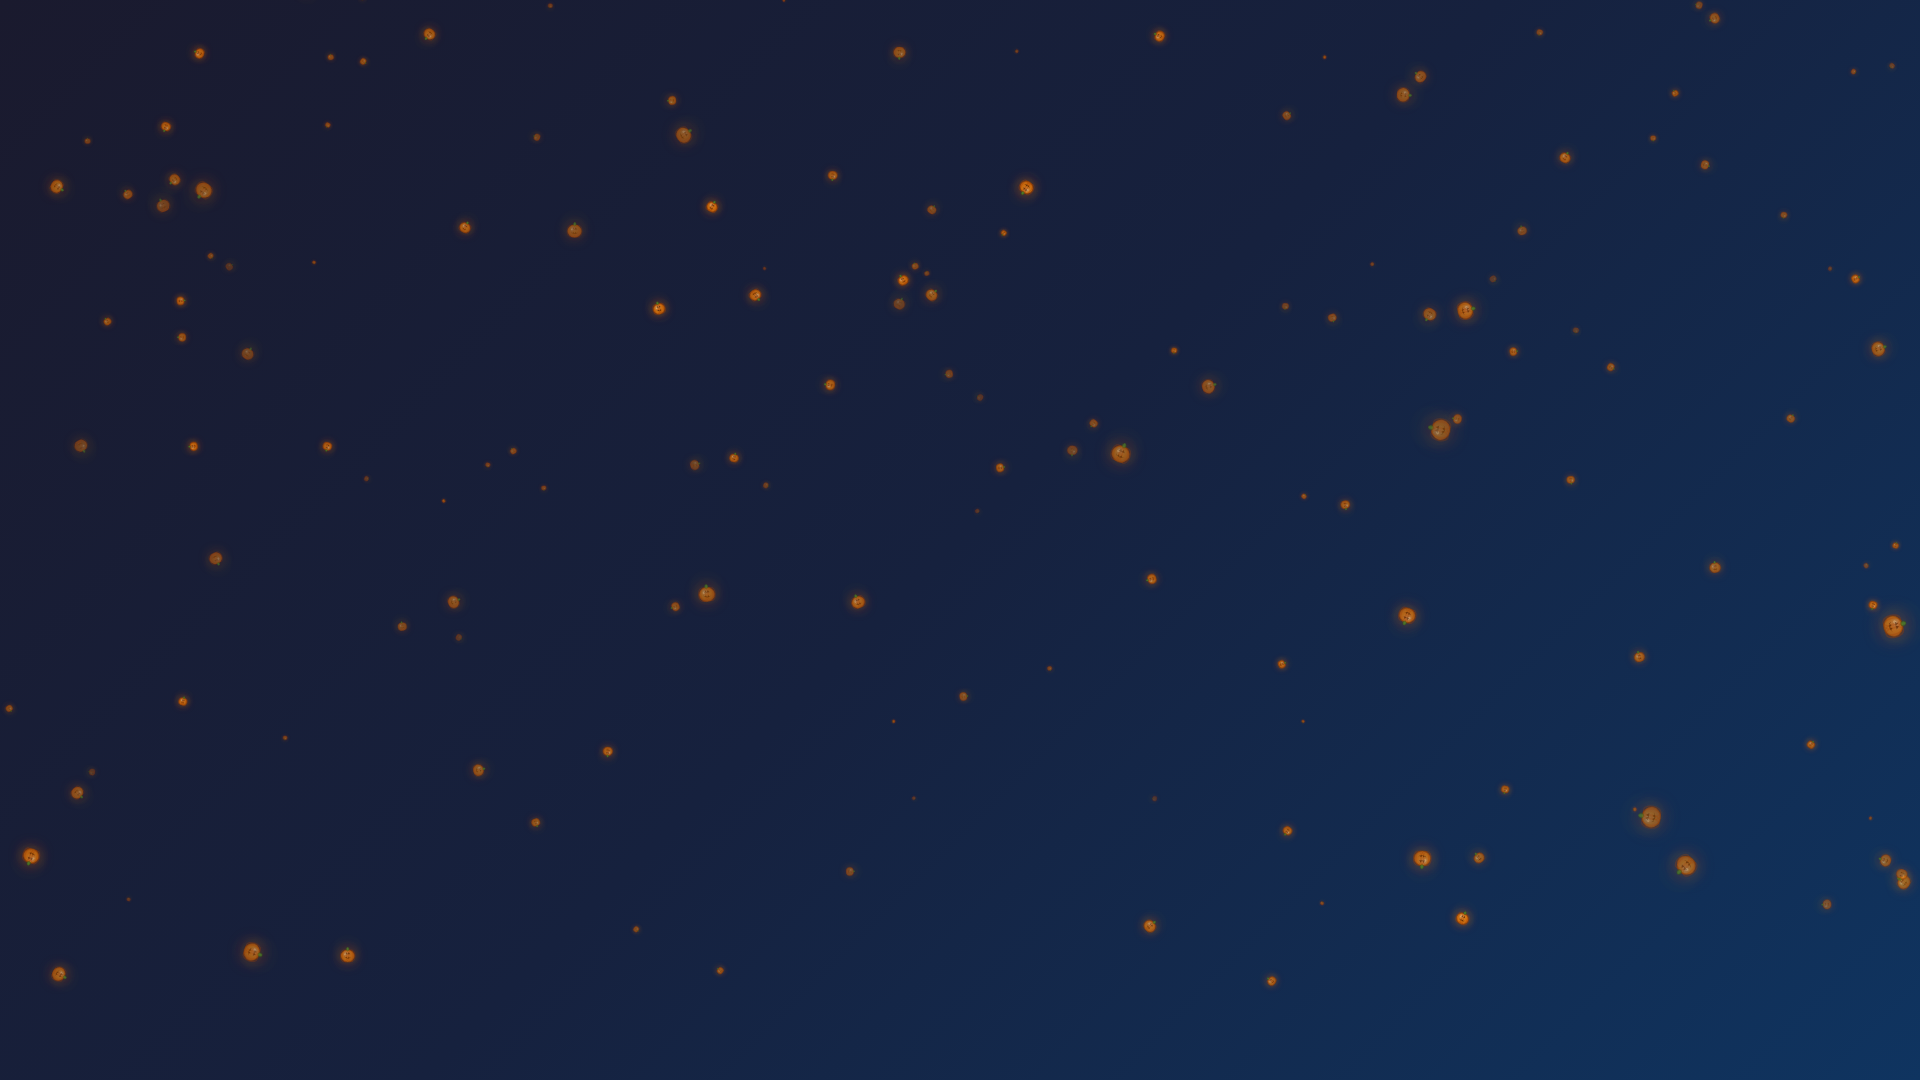
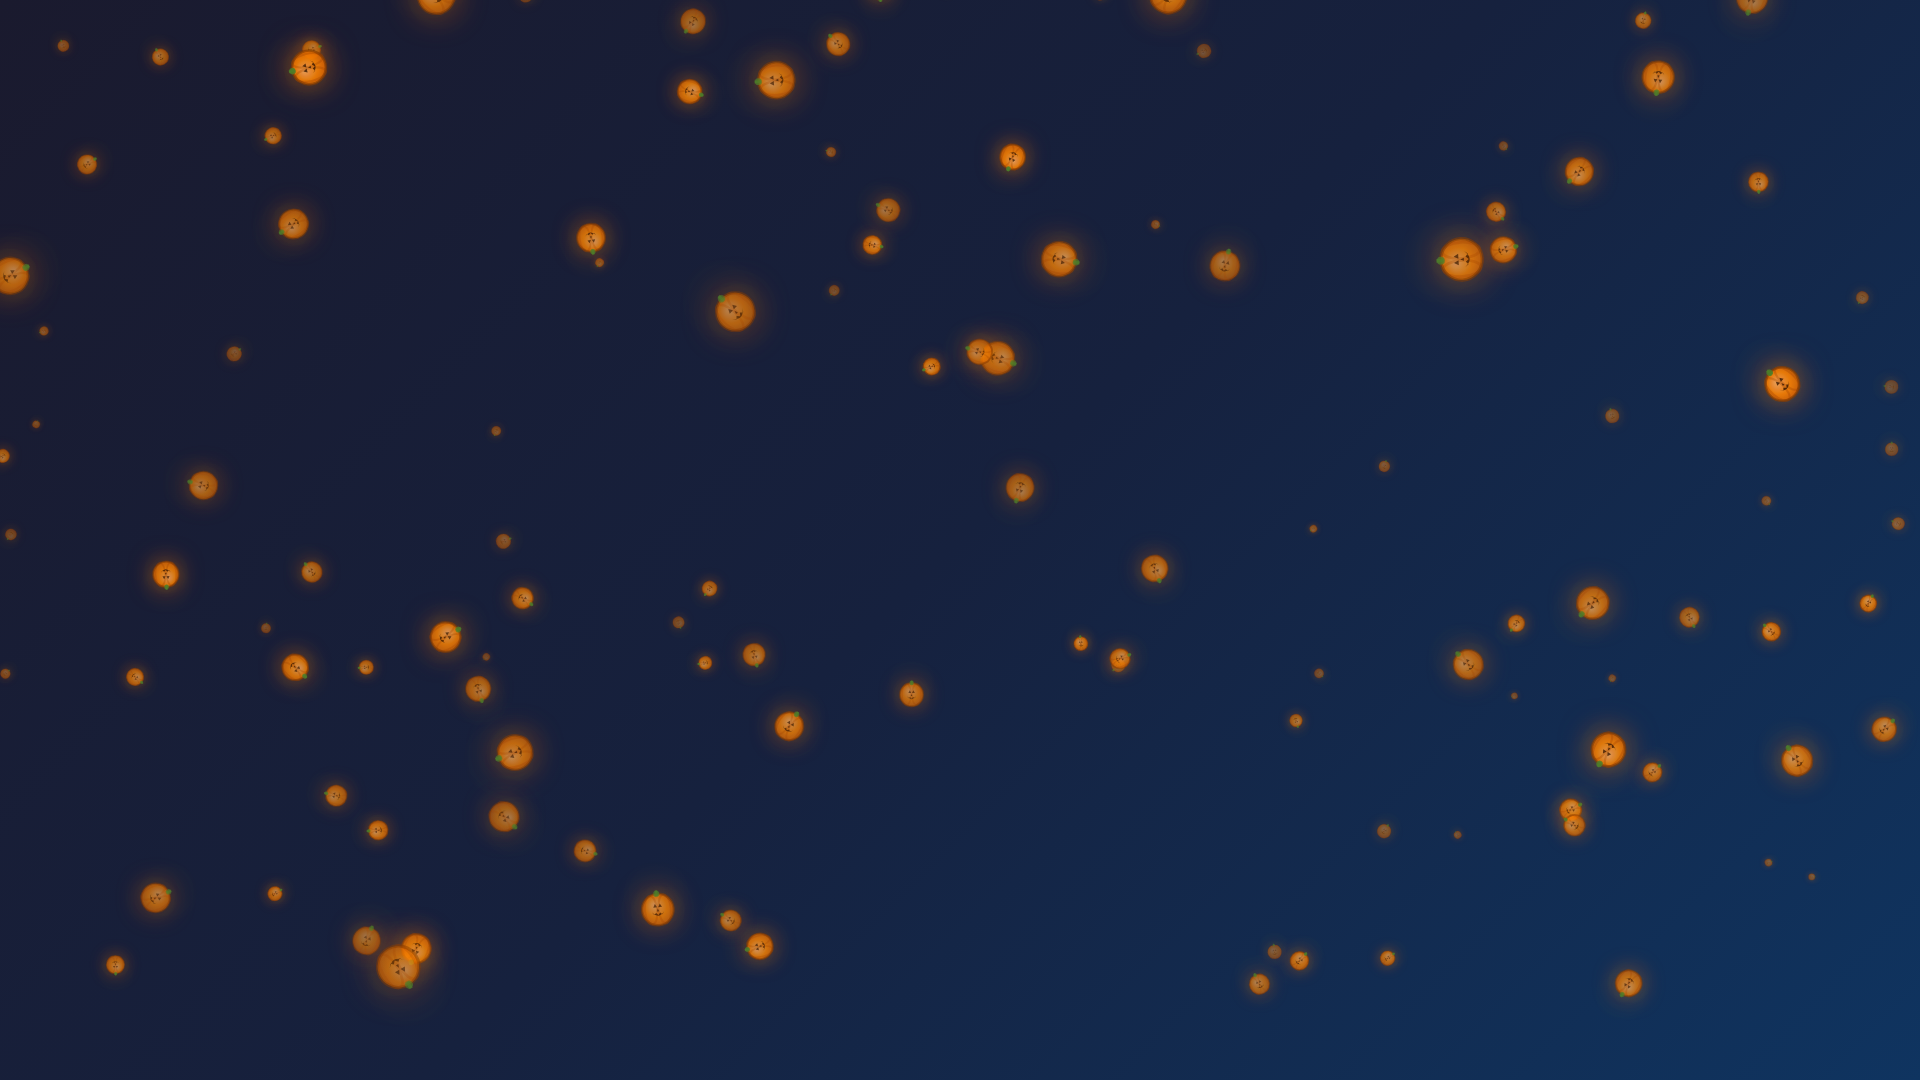
fix: 重新设计南瓜图案，更像 🎃 南瓜灯
- 改为更圆润的南瓜主体
- 增加三角眼、三角鼻、锯齿微笑嘴
- PatternIcon 南瓜图标同步重新设计
- 截图使用较大粒子展示表情细节

diff --git a/public/snow/drawers.js b/public/snow/drawers.js
@@ -273,81 +273,80 @@ export function drawButterfly (r) {
 }
 
 export function drawPumpkin (r) {
-  // 南瓜：圆润主体 + 纵向肋骨 + 绿色瓜蒂 + 高光
-  const bodyGrad = ctx.createRadialGradient(-r * 0.25, -r * 0.35, r * 0.15, 0, 0, r * 1.6)
-  bodyGrad.addColorStop(0, '#ffaa55')
-  bodyGrad.addColorStop(0.45, '#ff7f00')
+  // 🎃 南瓜灯：圆润主体 + 瓜蒂 + 三角眼/鼻 + 锯齿微笑嘴
+  const bodyGrad = ctx.createRadialGradient(-r * 0.2, -r * 0.3, r * 0.1, 0, 0, r * 1.5)
+  bodyGrad.addColorStop(0, '#ffab5c')
+  bodyGrad.addColorStop(0.5, '#ff7f00')
   bodyGrad.addColorStop(1, '#cc5500')
   ctx.fillStyle = bodyGrad
 
   // 主体
   ctx.beginPath()
-  ctx.ellipse(0, r * 0.05, r * 1.1, r * 1.0, 0, 0, Math.PI * 2)
+  ctx.arc(0, r * 0.05, r * 1.15, 0, Math.PI * 2)
   ctx.fill()
 
   // 纵向肋骨
-  ctx.strokeStyle = 'rgba(160, 60, 0, 0.5)'
+  ctx.strokeStyle = 'rgba(160, 65, 0, 0.4)'
   ctx.lineWidth = Math.max(0.8, r * 0.15)
-  for (let i = -2; i <= 2; i++) {
+  for (let i = -1; i <= 1; i++) {
     if (i === 0) continue
     ctx.beginPath()
-    ctx.ellipse(i * r * 0.32, r * 0.05, r * 0.55, r * 0.95, 0, 0, Math.PI * 2)
+    ctx.ellipse(i * r * 0.5, r * 0.05, r * 0.45, r * 1.05, 0, 0, Math.PI * 2)
     ctx.stroke()
   }
 
   // 外轮廓
-  ctx.strokeStyle = 'rgba(130, 50, 0, 0.75)'
+  ctx.strokeStyle = 'rgba(130, 55, 0, 0.75)'
   ctx.lineWidth = Math.max(1, r * 0.18)
   ctx.beginPath()
-  ctx.ellipse(0, r * 0.05, r * 1.1, r * 1.0, 0, 0, Math.PI * 2)
+  ctx.arc(0, r * 0.05, r * 1.15, 0, Math.PI * 2)
   ctx.stroke()
 
   // 瓜蒂
   ctx.fillStyle = '#4a7c2a'
   ctx.beginPath()
-  ctx.ellipse(0, -r * 1.05, r * 0.25, r * 0.25, 0, 0, Math.PI * 2)
+  ctx.ellipse(0, -r * 1.1, r * 0.22, r * 0.22, 0, 0, Math.PI * 2)
   ctx.fill()
-  ctx.fillRect(-r * 0.12, -r * 1.35, r * 0.24, r * 0.45)
+  ctx.fillRect(-r * 0.1, -r * 1.35, r * 0.2, r * 0.4)
 
-  ctx.strokeStyle = 'rgba(50, 80, 20, 0.7)'
-  ctx.lineWidth = Math.max(0.6, r * 0.12)
-  ctx.beginPath()
-  ctx.ellipse(0, -r * 1.05, r * 0.25, r * 0.25, 0, 0, Math.PI * 2)
-  ctx.stroke()
+  // 表情（尺寸足够大时绘制）
+  if (r > 2) {
+    ctx.fillStyle = 'rgba(50, 20, 0, 0.92)'
 
-  // 高光
-  ctx.fillStyle = 'rgba(255, 230, 180, 0.5)'
-  ctx.beginPath()
-  ctx.ellipse(-r * 0.35, -r * 0.25, r * 0.25, r * 0.15, -Math.PI / 6, 0, Math.PI * 2)
-  ctx.fill()
-
-  // 南瓜灯表情（尺寸足够大时绘制）
-  if (r > 2.2) {
-    ctx.fillStyle = 'rgba(60, 25, 0, 0.88)'
     // 左眼
     ctx.beginPath()
-    ctx.moveTo(-r * 0.42, -r * 0.22)
-    ctx.lineTo(-r * 0.18, -r * 0.52)
-    ctx.lineTo(r * 0.02, -r * 0.22)
+    ctx.moveTo(-r * 0.32, -r * 0.12)
+    ctx.lineTo(-r * 0.18, -r * 0.38)
+    ctx.lineTo(-r * 0.04, -r * 0.12)
     ctx.closePath()
     ctx.fill()
+
     // 右眼
     ctx.beginPath()
-    ctx.moveTo(r * 0.42, -r * 0.22)
-    ctx.lineTo(r * 0.18, -r * 0.52)
-    ctx.lineTo(-r * 0.02, -r * 0.22)
+    ctx.moveTo(r * 0.32, -r * 0.12)
+    ctx.lineTo(r * 0.18, -r * 0.38)
+    ctx.lineTo(r * 0.04, -r * 0.12)
     ctx.closePath()
     ctx.fill()
-    // 锯齿嘴
+
+    // 鼻子
     ctx.beginPath()
-    ctx.moveTo(-r * 0.55, r * 0.12)
-    ctx.lineTo(-r * 0.38, r * 0.42)
-    ctx.lineTo(-r * 0.18, r * 0.18)
-    ctx.lineTo(0, r * 0.42)
-    ctx.lineTo(r * 0.18, r * 0.18)
-    ctx.lineTo(r * 0.38, r * 0.42)
-    ctx.lineTo(r * 0.55, r * 0.22)
-    ctx.quadraticCurveTo(0, r * 0.82, -r * 0.55, r * 0.12)
+    ctx.moveTo(0, -r * 0.02)
+    ctx.lineTo(-r * 0.08, r * 0.18)
+    ctx.lineTo(r * 0.08, r * 0.18)
+    ctx.closePath()
+    ctx.fill()
+
+    // 微笑嘴
+    ctx.beginPath()
+    ctx.moveTo(-r * 0.45, r * 0.22)
+    ctx.lineTo(-r * 0.3, r * 0.42)
+    ctx.lineTo(-r * 0.15, r * 0.28)
+    ctx.lineTo(0, r * 0.45)
+    ctx.lineTo(r * 0.15, r * 0.28)
+    ctx.lineTo(r * 0.3, r * 0.42)
+    ctx.lineTo(r * 0.45, r * 0.22)
+    ctx.quadraticCurveTo(0, r * 0.78, -r * 0.45, r * 0.22)
     ctx.fill()
   }
 }

diff --git a/src/components/PatternIcon.js b/src/components/PatternIcon.js
@@ -73,14 +73,14 @@ function FuIcon (props) {
 function PumpkinIcon (props) {
   return (
     <SvgIcon {...props} viewBox='0 0 24 24'>
-      <ellipse cx='12' cy='14' rx='8' ry='8' fill='currentColor' />
-      <ellipse cx='8.5' cy='14' rx='4' ry='7.5' fill='currentColor' />
-      <ellipse cx='15.5' cy='14' rx='4' ry='7.5' fill='currentColor' />
-      <path d='M12 6.5v-3' stroke='#5a8a3a' strokeWidth='2.2' strokeLinecap='round' />
-      <polygon points='9.5,10.5 10.8,12.5 8.2,12.5' fill='rgba(60,25,0,0.9)' />
-      <polygon points='14.5,10.5 15.8,12.5 13.2,12.5' fill='rgba(60,25,0,0.9)' />
-      <path d='M8 15.5l1.5 1.5 1.5-1.5 1.5 1.5 1.5-1.5 1.5 1.5V17c0 .5-.5 1-1 1H9c-.5 0-1-.5-1-1v-1.5z' fill='rgba(60,25,0,0.9)' />
-      <ellipse cx='9.5' cy='11' rx='1.2' ry='0.8' fill='rgba(255,255,200,0.5)' />
+      <circle cx='12' cy='13' r='9' fill='currentColor' />
+      <ellipse cx='8.5' cy='13' rx='4' ry='8' fill='currentColor' />
+      <ellipse cx='15.5' cy='13' rx='4' ry='8' fill='currentColor' />
+      <path d='M12 4.5v-2.8' stroke='#5a8a3a' strokeWidth='2.2' strokeLinecap='round' />
+      <polygon points='9.2,10.5 10.5,8.2 11.8,10.5' fill='rgba(60,25,0,0.9)' />
+      <polygon points='14.2,10.5 15.5,8.2 16.8,10.5' fill='rgba(60,25,0,0.9)' />
+      <polygon points='12,11.5 11.2,12.8 12.8,12.8' fill='rgba(60,25,0,0.9)' />
+      <path d='M8 15l1.2 1.2 1.2-1.2 1.2 1.2 1.2-1.2 1.2 1.2 1.2-1.2V16c0 .4-.4.8-.8.8H8.8c-.4 0-.8-.4-.8-.8v-1z' fill='rgba(60,25,0,0.9)' />
     </SvgIcon>
   )
 }
